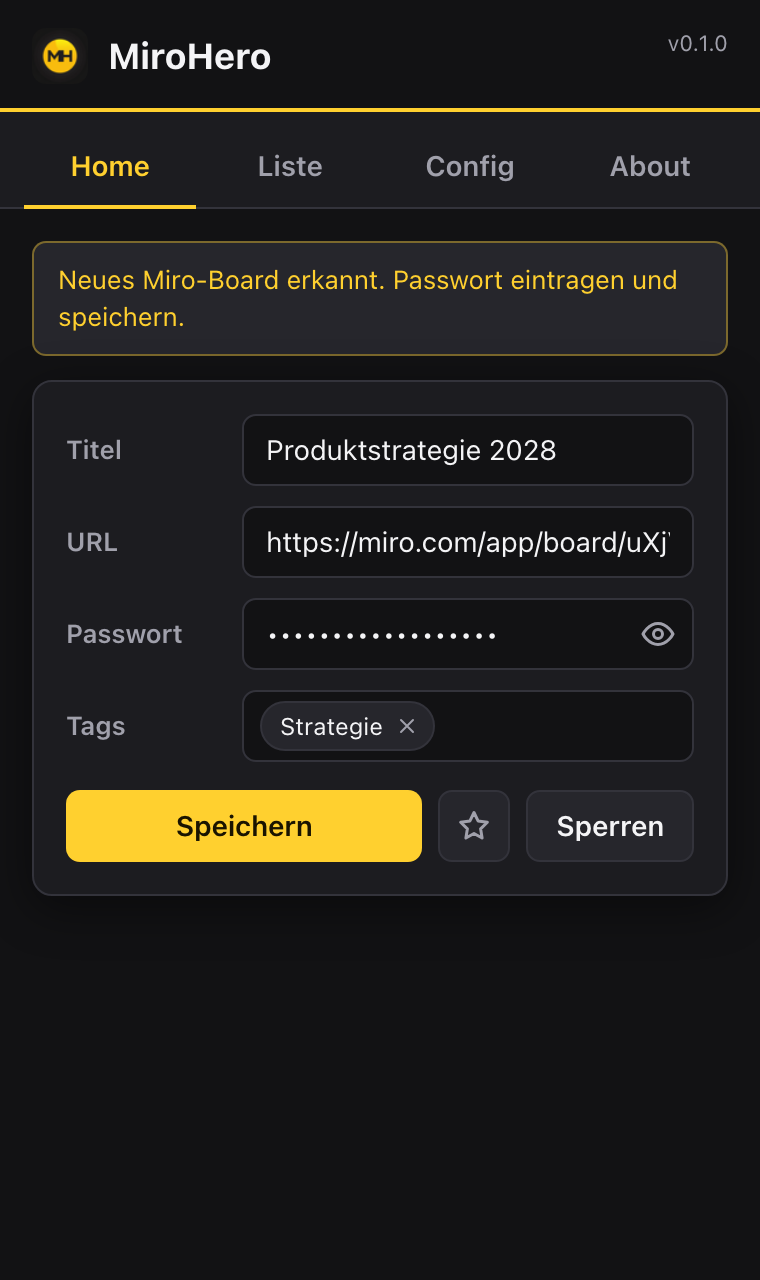
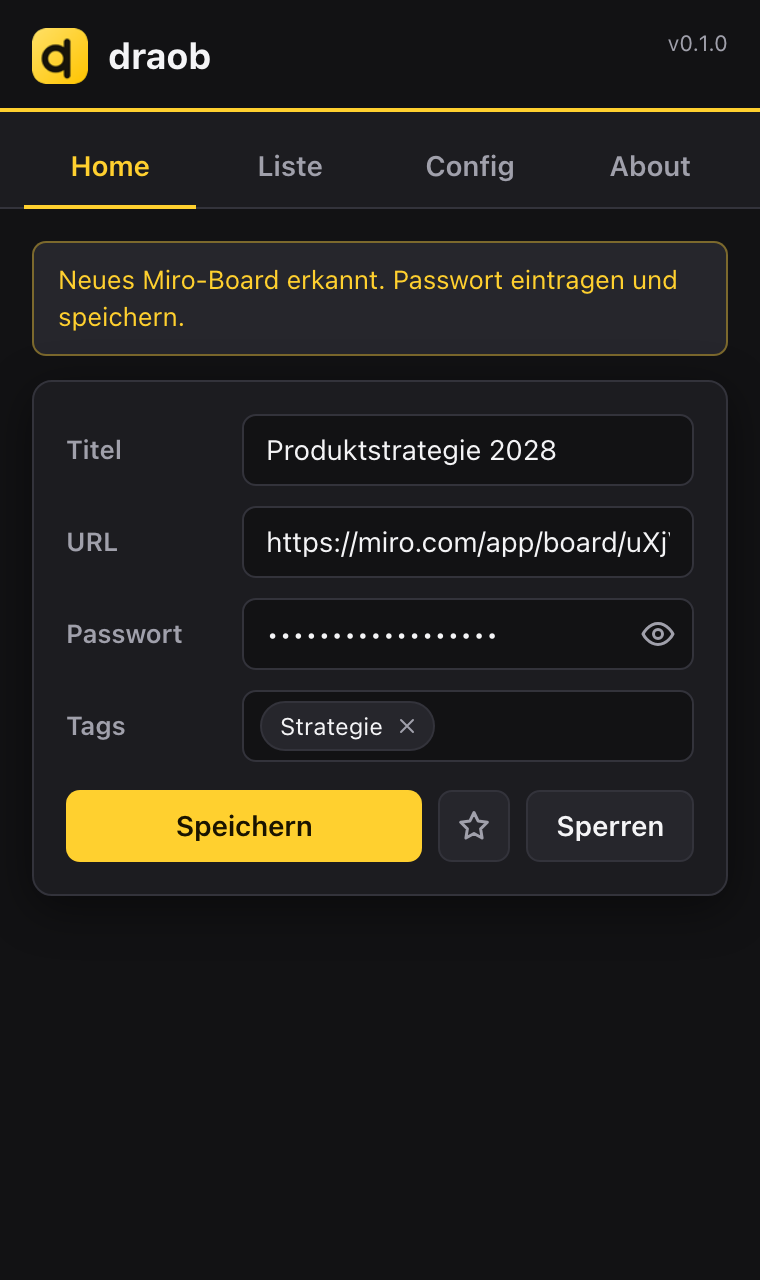
Rename project to draob (board reversed)
- New name in manifest, UI, badge, workflow, package, docs and README; MiroHero kept only as history
- Legacy verifier text 'mirohero-verifier-v1' stays (stored in every vault), with a test pinning it
- New 'd' logo (16/48/128 px), regenerated screenshots and hero image
- ADRs note the former name; Miro stays only as a descriptive reference (not affiliated)

Changed region(s): [[0.1513, 0.0312, 0.3632, 0.0625], [0.0303, 0.0, 0.1211, 0.0625]]

diff --git a/tests/unit/storage.test.js b/tests/unit/storage.test.js
@@ -1,4 +1,4 @@
-import { deriveKey, encryptPassword, generateKey } from '../../src/shared/crypto';
+import { decryptPassword, deriveKey, encryptPassword, generateKey } from '../../src/shared/crypto';
 import {
   DuplicateError,
   LockedError,
@@ -191,6 +191,7 @@ describe('migration v1 -> v2', () => {
     const vault = {
       v: 1,
       kdf: { salt, iterations: 1000 },
+      // legacy verifier text from the MiroHero days; must keep unlocking old vaults
       verifier: await encryptPassword('mirohero-verifier-v1', key),
       entries: [
         { id: 'e1', title: 'Altes Board', url: board(1), password: ok },
@@ -241,5 +242,15 @@ describe('migration v1 -> v2', () => {
     expect(areas.local.data.vault).toEqual(v1);
     expect(areas.local.data).not.toHaveProperty('vaultBackupV1');
     expect(await store.status()).toBe('locked');
+  });
+});
+
+describe('legacy verifier', () => {
+  it('keeps the pre-rename verifier text so existing vaults still unlock', async () => {
+    const { store, areas } = setup();
+    await store.create('master-password');
+    const { kdf, verifier } = areas.local.data.vault;
+    const key = await deriveKey('master-password', kdf.salt, kdf.iterations);
+    expect(await decryptPassword(verifier, key)).toBe('mirohero-verifier-v1');
   });
 });

diff --git a/src/popup/Header.jsx b/src/popup/Header.jsx
@@ -3,8 +3,8 @@ const version = () => globalThis.chrome?.runtime?.getManifest?.().version ?? '';
 export default function Header() {
   return (
     <header className="header">
-      <img className="header__logo" src="icons/MH_icon_48.png" alt="" />
-      <h1 className="header__title">MiroHero</h1>
+      <img className="header__logo" src="icons/icon_48.png" alt="" />
+      <h1 className="header__title">draob</h1>
       <span className="header__version">v{version()}</span>
     </header>
   );

diff --git a/src/shared/storage.js b/src/shared/storage.js
@@ -22,6 +22,8 @@ import { findEntryByUrl, isBoardUrl } from './miro';
 const VAULT = 'vault';
 const BACKUP_V1 = 'vaultBackupV1';
 const SESSION_KEY = 'sessionKey';
+// LEGACY, NEVER CHANGE: the project was called MiroHero before draob. This string is stored encrypted
+// in every existing vault and is checked on unlock; changing it would lock out all users.
 const VERIFIER_TEXT = 'mirohero-verifier-v1';
 export const MIN_MASTER_LENGTH = 8;
 

diff --git a/src/background/badge.js b/src/background/badge.js
@@ -2,7 +2,7 @@ import { BOARD_DETECTED } from '../shared/messages';
 
 export const BADGE_TEXT = '●';
 export const BADGE_COLOR = '#ffd02f';
-export const BADGE_TITLE = 'MiroHero: Passwort für dieses Board';
+export const BADGE_TITLE = 'draob: Passwort für dieses Board';
 
 /** Marks the sender's tab with a badge. Returns true if the message was handled. */
 export function handleMessage(message, sender, action) {

diff --git a/src/popup/AboutView.jsx b/src/popup/AboutView.jsx
@@ -3,7 +3,7 @@ export default function AboutView() {
     <div className="view">
       <div className="card">
         <h2 className="card__title" style={{ textAlign: 'left' }}>
-          Über MiroHero
+          Über draob
         </h2>
         <p className="muted" style={{ textAlign: 'left', marginTop: 6 }}>
           Speichert Passwörter für Miro-Boards lokal und verschlüsselt (AES-GCM, Schlüssel aus

diff --git a/src/options/App.jsx b/src/options/App.jsx
@@ -26,7 +26,7 @@ export default function OptionsApp() {
   return (
     <div className="app app--page">
       <header className="header">
-        <h1 className="header__title">MiroHero · Optionen</h1>
+        <h1 className="header__title">draob · Optionen</h1>
       </header>
       <form className="view" onSubmit={save}>
         <div className="card form">

diff --git a/public/options.html b/public/options.html
@@ -2,7 +2,7 @@
 <html lang="de">
 <head>
   <meta charset="UTF-8">
-  <title>MiroHero Optionen</title>
+  <title>draob Optionen</title>
   <link rel="stylesheet" href="options.css">
 </head>
 <body>

diff --git a/public/popup.html b/public/popup.html
@@ -2,7 +2,7 @@
 <html lang="de">
 <head>
     <meta charset="UTF-8">
-    <title>MiroHero Popup</title>
+    <title>draob</title>
   <link rel="stylesheet" href="popup.css">
 </head>
 <body>

diff --git a/src/shared/messages.js b/src/shared/messages.js
@@ -1,2 +1,2 @@
 // Message types between content script and service worker.
-export const BOARD_DETECTED = 'mirohero/board-detected';
+export const BOARD_DETECTED = 'draob/board-detected';

diff --git a/README.md b/README.md
@@ -1,11 +1,13 @@
 <p align="center">
-  <img src="docs/assets/hero.png" alt="MiroHero: Board-Passwörter verschlüsselt, durchsuchbar, mit einem Klick eingefügt" width="100%">
+  <img src="docs/assets/hero.png" alt="draob: Board-Passwörter verschlüsselt, durchsuchbar, mit einem Klick eingefügt" width="100%">
 </p>
 
 <h3 align="center">Schluss mit „Wie war nochmal das Passwort für dieses Board?“</h3>
 
+<p align="center"><sub><b>draob</b> ist <i>board</i> rückwärts: die Rückseite deiner Boards, auf der die Passwörter sicher liegen.</sub></p>
+
 <p align="center">
-  MiroHero ist eine Chrome-Extension, die die Passwörter deiner Miro-Boards verschlüsselt speichert,
+  draob ist eine Chrome-Extension, die die Passwörter deiner Miro-Boards verschlüsselt speichert,
   das richtige Board beim Öffnen erkennt und das Passwort mit einem Klick einfügt.
 </p>
 
@@ -13,24 +15,24 @@
   <b>Lokal</b> · <b>AES-256-verschlüsselt</b> · <b>keine Konten, kein Server, kein Tracking</b>
 </p>
 
-> **Status: früher Prototyp.** Alles Beschriebene funktioniert und ist getestet, aber MiroHero ist noch
+> **Status: früher Prototyp.** Alles Beschriebene funktioniert und ist getestet, aber draob ist noch
 > nicht im Chrome Web Store und hatte keine unabhängige Sicherheitsprüfung. Mehr unter
 > [Sicherheit & Ehrlichkeit](#sicherheit--ehrlichkeit).
 
 ---
 
-## Warum MiroHero?
+## Warum draob?
 
 Wer mit vielen Kunden, Teams und Workshops arbeitet, hat schnell **20, 30 oder mehr passwortgeschützte
-Miro-Boards**. Die Passwörter liegen in Chats, Notizen und Köpfen. MiroHero macht daraus eine kleine,
+Miro-Boards**. Die Passwörter liegen in Chats, Notizen und Köpfen. draob macht daraus eine kleine,
 aufgeräumte Schaltzentrale direkt im Browser.
 
 ## Das kann es
 
 | | |
 |---|---|
-| 🎯 **Erkennt dein Board** | Öffnest du ein Miro-Board, übernimmt MiroHero URL und Titel. Ist das Board schon gespeichert, lädt es den Eintrag, sonst bietet es ihn als neuen an. |
-| ⚡ **Passwort mit einem Klick** | „In Miro einfügen“ trägt das Passwort in das Feld der Miro-Seite ein. Absenden tust du selbst, MiroHero drückt nie etwas für dich. |
+| 🎯 **Erkennt dein Board** | Öffnest du ein Miro-Board, übernimmt draob URL und Titel. Ist das Board schon gespeichert, lädt es den Eintrag, sonst bietet es ihn als neuen an. |
+| ⚡ **Passwort mit einem Klick** | „In Miro einfügen“ trägt das Passwort in das Feld der Miro-Seite ein. Absenden tust du selbst, draob drückt nie etwas für dich. |
 | 🔎 **Sofort-Suche** | Findet Titel, URL und Tags in Echtzeit, ohne Groß-/Kleinschreibung und Akzente (`cafe` findet `Café`). Mehrere Wörter grenzen weiter ein. |
 | 🏷 **Tags & Favoriten** | Ordne Boards mit Tags („Kunde A“, „Agil“) und hefte die wichtigsten mit ★ oben an. Filter-Chips zeigen, wie viele Boards jedes Tag hat. |
 | 🧹 **Keine Dubletten** | Pro Miro-Board gibt es genau einen Eintrag, auch wenn die URL mal mit `eu.miro.com` oder Parametern kommt. Bestehende Doppelte führst du mit einem Klick zusammen. |
@@ -57,8 +59,8 @@ aufgeräumte Schaltzentrale direkt im Browser.
 ## So funktioniert es
 
 1. **Masterpasswort festlegen.** Beim ersten Start legst du ein Masterpasswort fest (mindestens 8 Zeichen).
-   Aus ihm wird der Schlüssel berechnet. MiroHero speichert das Passwort selbst nie.
-2. **Board öffnen, Popup öffnen.** Klick auf das MiroHero-Icon. Neues Board? Passwort eintragen, Tags
+   Aus ihm wird der Schlüssel berechnet. draob speichert das Passwort selbst nie.
+2. **Board öffnen, Popup öffnen.** Klick auf das draob-Icon. Neues Board? Passwort eintragen, Tags
    vergeben, speichern. Bekanntes Board? Der Eintrag ist schon da.
 3. **Einfügen.** „In Miro einfügen“ klicken, in Miro bestätigen. Fertig.
 
@@ -66,7 +68,7 @@ Der Tresor sperrt sich, wenn du Chrome schließt, oder wenn du auf **Sperren** k
 
 ## Installation
 
-MiroHero ist noch nicht im Chrome Web Store. Bis dahin installierst du es aus dem Quellcode (Node.js 20+):
+draob ist noch nicht im Chrome Web Store. Bis dahin installierst du es aus dem Quellcode (Node.js 20+):
 
 ```bash
 git clone https://github.com/engelrico/miroHero.git
@@ -87,7 +89,7 @@ Für das Badge auf einem Board die Miro-Seite einmal neu laden.
 
 ## Sicherheit & Ehrlichkeit
 
-**Was MiroHero tut**
+**Was draob tut**
 
 - **Verschlüsselung:** AES-256-GCM. Der Schlüssel entsteht aus deinem Masterpasswort mit PBKDF2-SHA-256
   (600.000 Iterationen, zufälliges Salt).
@@ -103,12 +105,12 @@ Für das Badge auf einem Board die Miro-Seite einmal neu laden.
   | `scripting` | auf Klick das Passwort ins Feld der Miro-Seite eintragen |
 
   Das Content-Script läuft ausschließlich auf `miro.com/app/board/*`.
-- **Kein Auto-Submit:** MiroHero füllt nur aus, du bestätigst selbst. Ausgefüllt wird auch nur auf deinen Klick.
+- **Kein Auto-Submit:** draob füllt nur aus, du bestätigst selbst. Ausgefüllt wird auch nur auf deinen Klick.
 
 **Was du wissen solltest**
 
 - **Vergisst du das Masterpasswort, sind die Daten weg.** Es gibt keine Wiederherstellung (das ist Absicht).
-- MiroHero ist ein **Prototyp ohne unabhängiges Sicherheits-Audit**. Für Hochsicherheits-Zugangsdaten nimm
+- draob ist ein **Prototyp ohne unabhängiges Sicherheits-Audit**. Für Hochsicherheits-Zugangsdaten nimm
   einen etablierten Passwortmanager. Für Board-Passwörter, die sonst in Chat-Verläufen liegen, ist es ein
   deutlicher Schritt nach vorn.
 - Es gibt noch keinen Auto-Lock nach Zeit und keinen Weg, das Masterpasswort zu ändern.
@@ -152,7 +154,7 @@ Icons) in `public/`.
 
 ## Hinweis
 
-MiroHero ist ein unabhängiges Projekt und **nicht mit Miro verbunden, von Miro unterstützt oder geprüft**.
+draob ist ein unabhängiges Projekt und **nicht mit Miro verbunden, von Miro unterstützt oder geprüft**.
 „Miro“ ist eine Marke der jeweiligen Inhaberin.
 
 Lizenz: noch nicht festgelegt.

diff --git a/docs/requirements.md b/docs/requirements.md
@@ -15,7 +15,7 @@ Status: `offen` = nicht umgesetzt. Quelle: ursprüngliche Featureliste des Proje
 ## Verhalten
 | ID | Anforderung | Status |
 |---|---|---|
-| F-10 | Auf `miro.com/app/board/` weist ein Badge am Icon auf MiroHero hin (statt automatischem Öffnen, das ohne Nutzergeste nicht zuverlässig geht) | umgesetzt |
+| F-10 | Auf `miro.com/app/board/` weist ein Badge am Icon auf draob hin (statt automatischem Öffnen, das ohne Nutzergeste nicht zuverlässig geht) | umgesetzt |
 | F-11 | Klick auf "Liste" zeigt die Listenansicht, "Home" wieder das Formular | umgesetzt |
 | F-12 | Listenansicht: nur Titel und Tab-Leiste bleiben; alle gespeicherten Titel aufgelistet | umgesetzt |
 | F-13 | Klick auf eine Listenzeile füllt das Formular mit den Werten | umgesetzt |

diff --git a/docs/compliance.md b/docs/compliance.md
@@ -17,4 +17,4 @@ Stand 2026-11-04. Ein Haken heißt: im Repo belegt. Alles andere ist offen.
 | Performance-Ziele (UI < 200 ms) | ungemessen | |
 | Store-Listing, Datenschutzerklärung, Screenshots | offen | |
 
-Deploy: `Package extension` (GitHub Action, manuell) erzeugt `mirohero.zip`; Upload in den Store erfolgt von Hand.
+Deploy: `Package extension` (GitHub Action, manuell) erzeugt `draob.zip`; Upload in den Store erfolgt von Hand.
